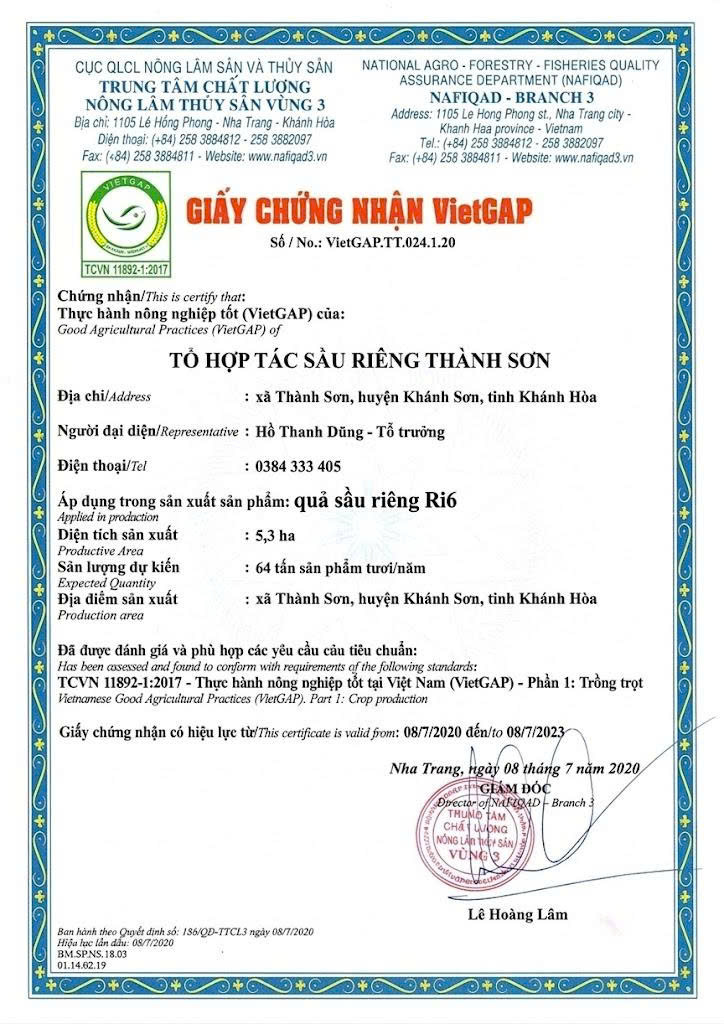
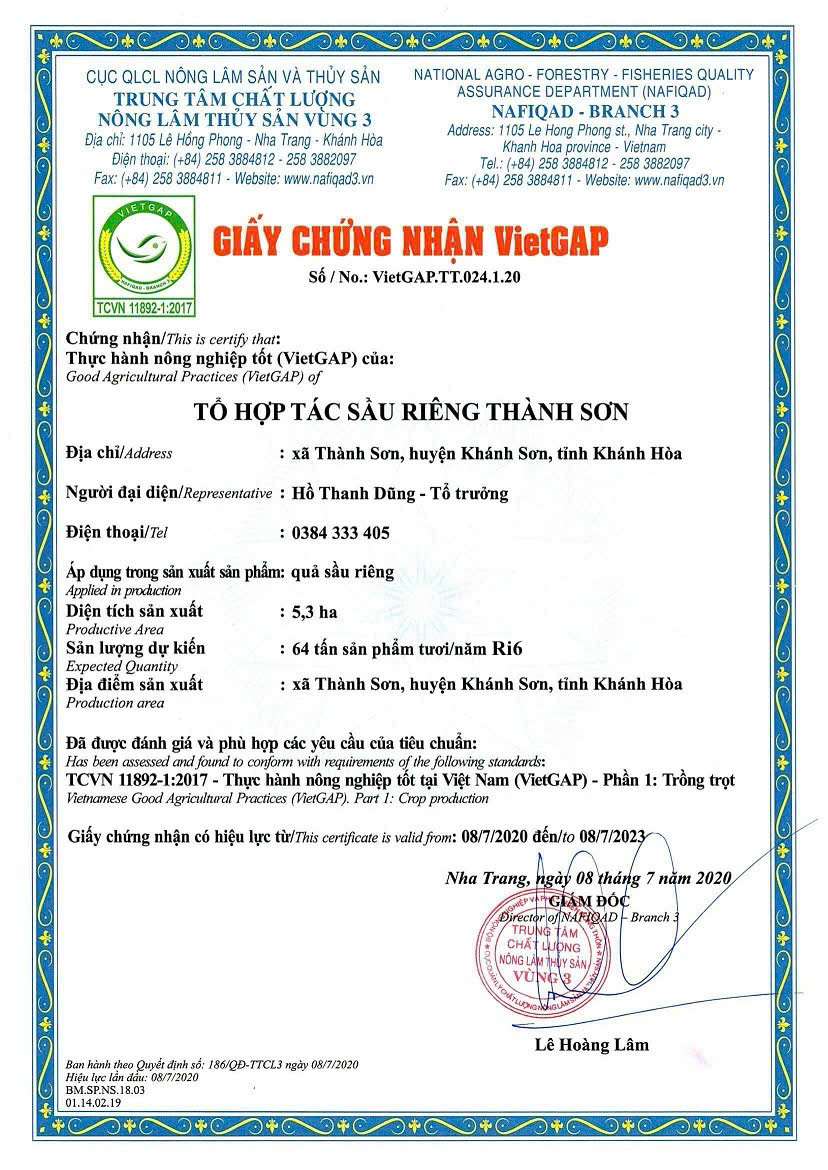
add metadata and ipfs upload files

diff --git a/Backend/metadataCID.js b/Backend/metadataCID.js
@@ -1,53 +1,9 @@
-// Dữ liệu demo metadata CID
-
 const demoData = [
-
   {
-    productName: "Coffee",
-
-    origin: "Buôn Ma Thuột",
-
-    metadataCID:
-      "QmfBhHB9RZAJc3n1eE1wtttcvH8HTXdDkXo6nGNUXj4Wui",
-  },
-
-  {
-    productName: "Pork",
-
-    origin: "Quảng Bình",
-
-    metadataCID:
-      "QmdJbCeNWWRwQhvvgrzme7yBK3KKV1PkDbhapXP2fUL5CR",
-  },
-
-  {
-    productName: "Vegetable",
-
-    origin: "Lâm Đồng",
-
-    metadataCID:
-      "QmbktkAg9bRhQxoa56EgkAedAkGbz1HYaQxn4MCVU5v7EL",
-  },
-
-  {
-  productName: "Longan",
-
-  origin: "Hưng Yên",
-
-  metadataCID:
-    "Qme1smiD78ERFoKqiVeyodb9HzLkBYSsiAxDd7eb9VpiFD"
-  },
-
-  {
-  productName: "Cashew",
-
-  origin: "Bình Phước",
-
-  metadataCID:
-    "QmTs2MzLMSvDen1S8QHdphPjr2eJgMfLB3W9emdg3C3THo"
-}
-
+    productName: "Ri6",
+    origin: "Khánh Hòa",
+    metadataCID: "QmbVYfdZg5gfjrgdUtf2VPHnuXSLaKDhwrYBuBeTfN6Awv"
+  }
 ];
 
-// Export dữ liệu
 module.exports = demoData;

diff --git a/Backend/test/testMetadataUpload.js b/Backend/test/testMetadataUpload.js
@@ -4,14 +4,10 @@ const { uploadJSONToIPFS } =
 
 async function testMetadataUpload() {
   const metadata = JSON.parse(
-    fs.readFileSync(
-      "./metadata/cashew.json",
-      "utf8"
-    )
+    fs.readFileSync("./metadata/ri6.json", "utf8")
   );
 
-  const result =
-    await uploadJSONToIPFS(metadata);
+  const result = await uploadJSONToIPFS(metadata);
 
   console.log(result);
 }

diff --git a/Backend/test/testImageUpload.js b/Backend/test/testImageUpload.js
@@ -3,9 +3,7 @@ const { uploadImageToIPFS } =
 
 async function testImageUpload() {
   const result =
-    await uploadImageToIPFS(
-      "./uploads/cashew_certificate.jpg"
-    );
+    await uploadImageToIPFS("./uploads/ri6_certificate.jpg");
 
   console.log(result);
 }
